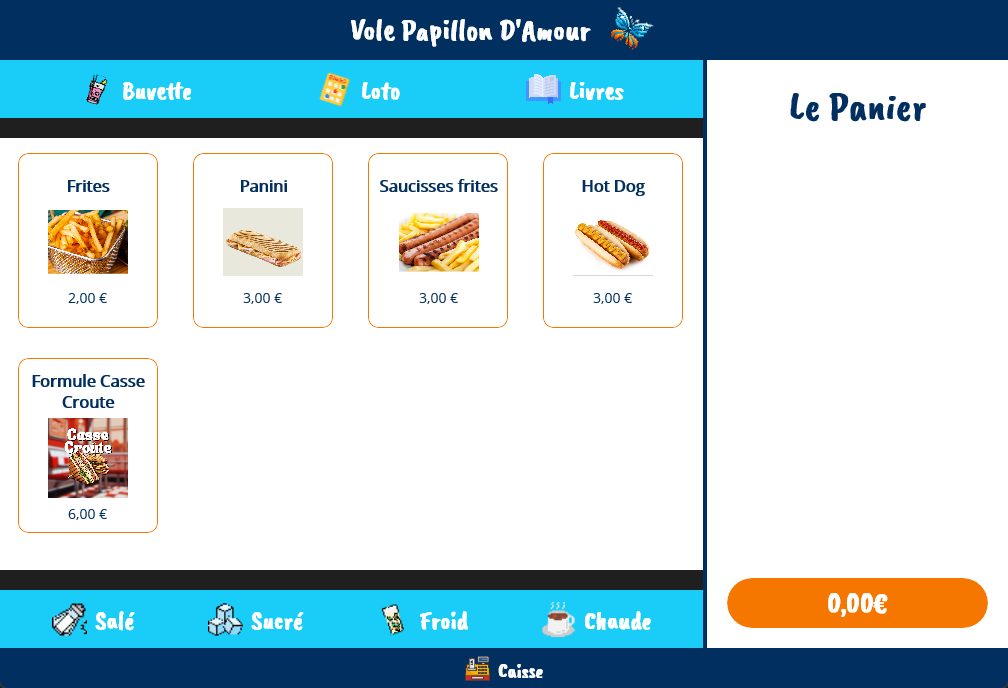
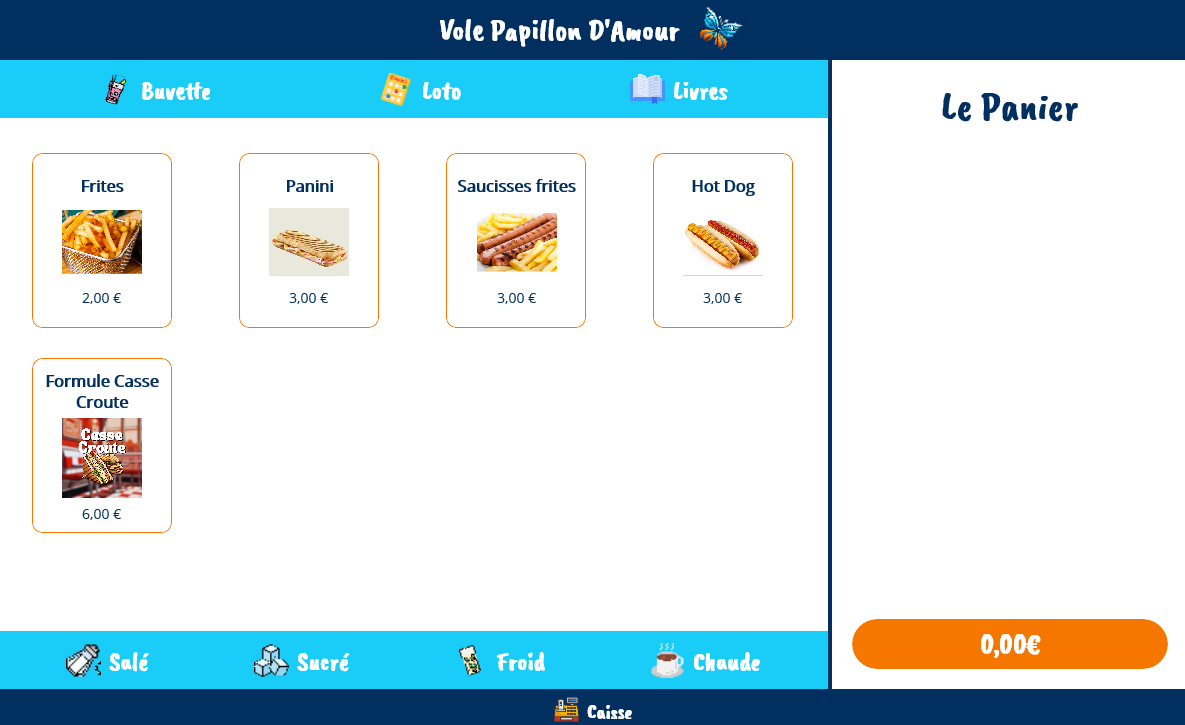
fix adjust background color and card minimum width in MainPage

diff --git a/MainPage.xaml b/MainPage.xaml
@@ -4,6 +4,7 @@
              xmlns:x="http://schemas.microsoft.com/winfx/2009/xaml"
              xmlns:views="clr-namespace:ShopAppVpd.Views"
              xmlns:vm="clr-namespace:ShopAppVpd.ViewModels"
+             Background="{StaticResource White}"
              x:Class="ShopAppVpd.MainPage">
 
     <Grid RowDefinitions="Auto,*,Auto">

diff --git a/MainPage.xaml.cs b/MainPage.xaml.cs
@@ -20,7 +20,7 @@ public partial class MainPage : ContentPage
 
         if (ProductCollection?.ItemsLayout is GridItemsLayout grid)
         {
-            double cardMinWidth = 200;
+            double cardMinWidth = 225;
             double spacing = 15;
             double totalMargin = 30;
             
